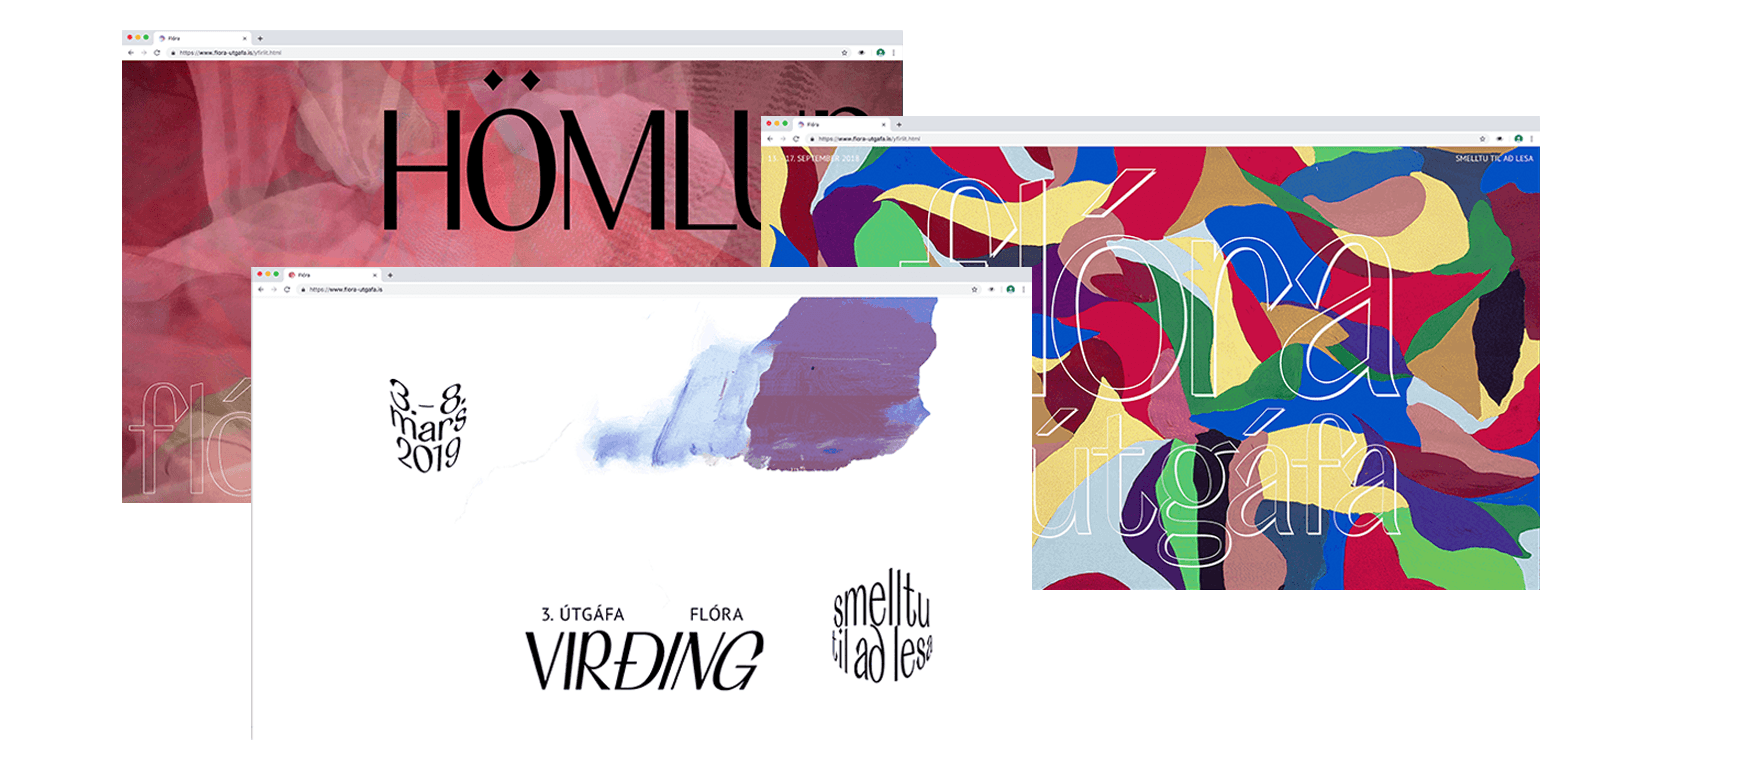
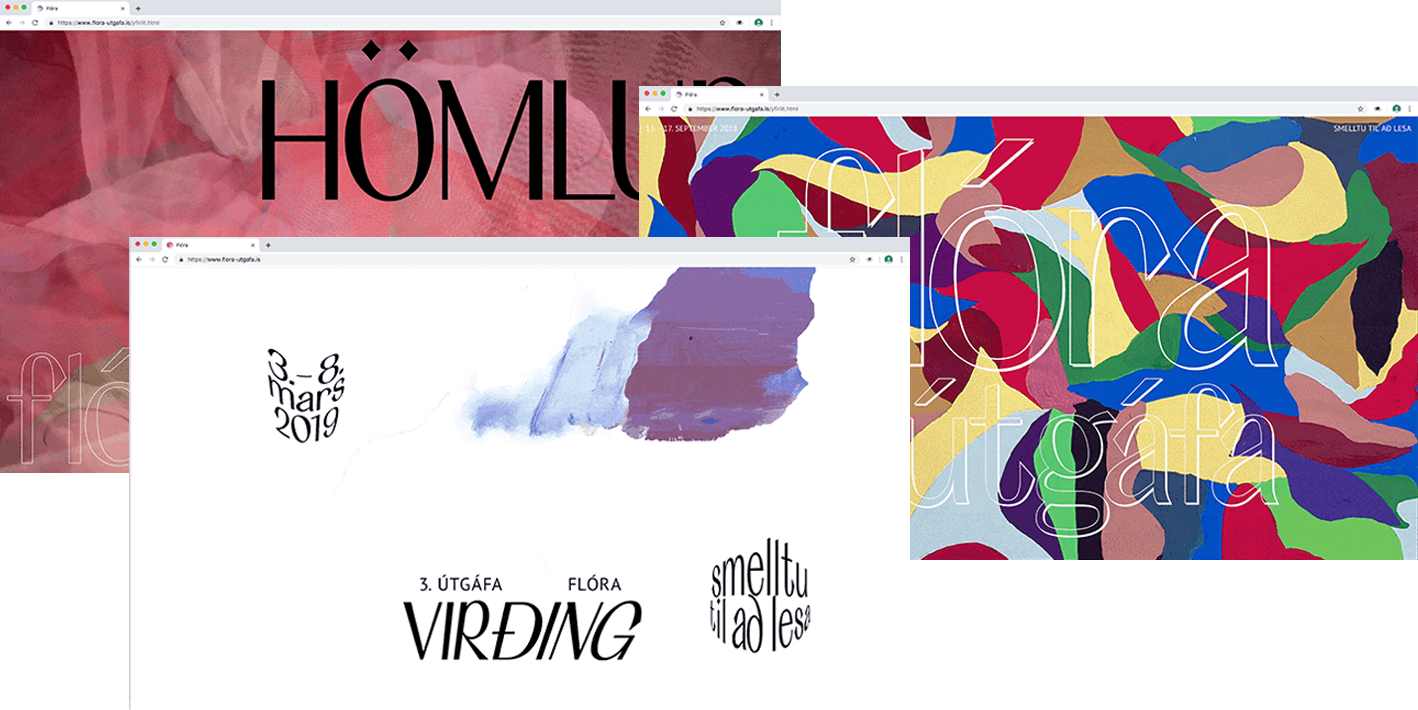
better

diff --git a/viv.html b/viv.html
@@ -38,64 +38,51 @@
 
 
 
-
-  <img class="portfolio-item" style="
-  position: absolute;
-    top: 0.8%;
-    z-index: 1;
-    right: 35.5%;
-    height: 45%;" 
-    src="igms/INNviv/30.jpg"/>
+  
+  
     <img class="portfolio-item" style="
-  position: absolute;
-    top: 1%;
+    position: absolute;
+    top: 3.2%;
     z-index: 1;
-    right: 0.1%;
+    left: 18.3%;
     height: 45%;" 
-    src="igms/INNviv/31.jpg"/>
-<img class="portfolio-item" style="
-position: absolute;
-bottom: 20%;
-z-index: 1;
-right: 2%;
-height: 45%;" 
-  src="igms/INNviv/44.jpg"/>
-    <img class="portfolio-item" style="
-  position: absolute;
-    top: 13%;
-    z-index: 1;
-    right: 15%;
-    height: 45%;" 
-    src="igms/INNviv/29.jpg"/>
+    src="igms/INNviv/41.jpg"/>
+    
 
 
-
-	<img class="portfolio-item" style="
-  position: absolute;
-    top: 15%;
-    z-index: 1;
-    left: 0.5%;
-    height: 45%;" 
-    src="igms/INNviv/25.jpg"/>
+	
   <img class="portfolio-item" style="
 	position: absolute;
-  	top: 3%;
+  	top: 18%;
   	z-index: 1;
   	left: 3%;
   	height: 45%;" 
   	src="igms/INNviv/22.jpg"/>
 
+    <img class="portfolio-item" style="
+  position: absolute;
+    top: 39.3%;
+    z-index: 1;
+    left: 15.9%;
+    height: 45%;" 
+    src="igms/INNviv/26.jpg"/>
 
-  	<img class="portfolio-item" style="
-	position: absolute;
-  	bottom: -1%;
-  	z-index: 1;
-  	left: 36%;
-  	height: 45%;" 
-  	src="igms/INNviv/32.jpg"/>
+    <img class="portfolio-item" style="
+  position: absolute;
+    top: 68.5%;
+    z-index: 1;
+    left: 3.5%;
+    height: 45%;" 
+    src="igms/INNviv/38.jpg"/>
 
-    
-	
+    <img class="portfolio-item" style="
+    position: absolute;
+    top: 56.8%;
+    z-index: 1;
+    right: 35.3%;
+    height: 45%;" 
+    src="igms/INNviv/42.jpg"/>
+  	
 
     
 
@@ -103,30 +90,19 @@ height: 45%;"
     
 
 
-    <img class="portfolio-item" style="
-  position: absolute;
-    bottom: 1%;
-    z-index: 1;
-    left: 1%;
-    height: 45%;" 
-    src="igms/INNviv/38.jpg"/>
+    
 
     <img class="portfolio-item" style="
   position: absolute;
-    bottom: -1%;
+    top: 60%;
     z-index: 1;
-    right: -1%;
+    right: 5%;
     height: 45%;" 
     src="igms/INNviv/43.jpg"/>
 
 
-    <img class="portfolio-item" style="
-  position: absolute;
-    bottom: 5%;
-    z-index: 1;
-    left: 13%;
-    height: 45%;" 
-    src="igms/INNviv/26.jpg"/>
+    
+    <!--
     <img class="portfolio-item" style="
     position: absolute;
     top: 32%;
@@ -141,23 +117,61 @@ height: 45%;"
     right: 27.5%;
     height: 45%;" 
     src="igms/INNviv/28.jpg"/>
-	
+    -->
+	  <img class="portfolio-item" style="
+    position: absolute;
+    top: 120%;
+    z-index: 1;
+    right: 2%;
+    height: 45%;" 
+    src="igms/INNviv/44.jpg"/>
+    <img class="portfolio-item" style="
+    position: absolute;
+    top: 95.2%;
+    z-index: 1;
+    left: 15.6%;
+    height: 45%;" 
+    src="igms/INNviv/25.jpg"/>
+    <img class="portfolio-item" style="
+    position: absolute;
+    top: 119%;
+    z-index: 1;
+    left: 3.5%;
+    height: 45%;" 
+    src="igms/INNviv/32.jpg"/>
+    <img class="portfolio-item" style="
+    position: absolute;
+    top: 110%;
+    z-index: 1;
+    right: 28%;
+    height: 45%;" 
+    src="igms/INNviv/29.jpg"/>
   	
 
     <img class="portfolio-item" style="
   position: absolute;
-    bottom: 5%;
+    top: 17%;
     z-index: 1;
-    right: 2%;
+    right: 4.5%;
     height: 45%;"
     src="igms/INNviv/back.png"/>
   	<img class="portfolio-item" style="
 	position: absolute;
-  	bottom: 15%;
+  	top: 2.5%;
   	z-index: 1;
-  	right: 12%;
+  	right: 11%;
   	height: 45%;" 
   	src="igms/INNviv/viv.png"/>
+
+<div style="
+position: absolute;
+top: 169%;
+left: 2%;
+right: 2%;
+height: auto;
+padding-bottom: 3%;">
+    <div style="padding:36.16% 0 0 0;position:relative;"><iframe src="https://player.vimeo.com/video/331594636?autoplay=1&loop=1&title=0&byline=0&portrait=0" style="position:absolute;top:0;left:0;width:100%;height:100%;" frameborder="0" allow="autoplay; fullscreen" allowfullscreen></iframe></div><script src="https://player.vimeo.com/api/player.js"></script>
+</div>
 
 	<div class="date">Spring 2017</div>
 

diff --git a/flora.html b/flora.html
@@ -37,16 +37,14 @@
   </div>
 
 	
+  
 
-	
-
-	
-  <img class="img portfolio-item" src="igms/INNflora/flaedi.png" style="position: absolute; height: 50%; right: 1%; bottom: 2%;" />
-  <img class="img portfolio-item" src="igms/INNflora/vald2.png" style="position: absolute; height: 40%; left: 2%; top: 2%;" />
-  <img class="img portfolio-item" src="igms/INNflora/rymi2.png" style="position: absolute; height: 40%; right: 0.5%; top: 1%;" />
-  <img class="img portfolio-item" src="igms/INNflora/finnst.png" style="position: absolute; height: 40%; left: 1%; bottom: 1%;" />
-  <img class="img portfolio-item" src="igms/INNflora/ord.png" style="position: absolute; height: 40%; left: 20%; bottom: 15%;" />
-  <img class="img portfolio-item" src="igms/INNflora/forsidur.png" style="position: absolute; height: 40%; right: 24.2%; top: 6%;" />
+  <img class="img portfolio-item" src="igms/INNflora/flaedi.png" style="position: absolute; height: 65%; left: 2.8%; top: 23%;" />
+  <img class="img portfolio-item" src="igms/INNflora/finnst.png" style="position: absolute; height: 52%; right: 4%; top: 4.6%;" />
+  <img class="img portfolio-item" src="igms/INNflora/ord.png" style="position: absolute; height: 52%; right: 6.9%; top: 67%;" />
+  <img class="img portfolio-item" src="igms/INNflora/forsidur.png" style="position: absolute; height: 43%; right: 2%; top: 146%;" />
+  <img class="img portfolio-item" src="igms/INNflora/vald2.png" style="position: absolute; height: 52%; left: 3.7%; top: 107%;" />
+  <img class="img portfolio-item" src="igms/INNflora/rymi2.png" style="position: absolute; height: 52%; left: 2%; top: 175%; padding-bottom: 3%;" />
 
 
 

diff --git a/organogram.html b/organogram.html
@@ -34,14 +34,16 @@
     </div>
   </div>
 
-  <div style="padding:60.71% 0 0 0;position:relative;"><iframe src="https://player.vimeo.com/video/329474642?autoplay=1&loop=1&color=ffffff&title=0&byline=0&portrait=0" style="position:absolute;top:0.5%;left:5%;width:90%;height:95%;" frameborder="0" allow="autoplay; fullscreen" allowfullscreen></iframe></div><script src="https://player.vimeo.com/api/player.js"></script>
+  <div style="position: absolute;top:3%;left:7%;width:86%;height:90%;">
+    <div style="padding:60.71% 0 0 0;position:relative;"><iframe src="https://player.vimeo.com/video/329474642?autoplay=1&loop=1&color=ffffff&title=0&byline=0&portrait=0" style="position:absolute;top:0%;left:0%;width:100%;height:100%;" frameborder="0" allow="autoplay; fullscreen" allowfullscreen></iframe></div><script src="https://player.vimeo.com/api/player.js"></script>
+  </div>
 
-	<div class="date">Autumn 2018</div>
+	<div class="date" style="color: violet;">Autumn 2018</div>
 
 	<div class="subtitlesDate" style="left: 45% !important; right: 45% !important;">KABK.</div>
 
 	
-	<div class="name">Organogram</div>
+	<div class="name" style="color: violet;">Organogram</div>
 	<div class="subtitlesName" style="left: 5%; right: 5%;">
 		A demo of what was supposed to become a website containing a different way of imagining the structure of KABK through a physicalised&nbsp;organogram. Collaboration with Anna&nbsp;Moschioni, Brechje&nbsp;Krah, Nicolai&nbsp;Schmelling, Selina&nbsp;Landis and Seojeong&nbsp;Yoon. 
 	</div>

diff --git a/crowdstream.html b/crowdstream.html
@@ -26,7 +26,7 @@
 <div id="Screen" class="containerMiddleScroll" >
   <div class="dragAnnounceMobile">!! Mobile version under construction !!</div>
 
-	<div class="close">x</div>
+	<div class="close" style="color: white;">x</div>
 
 	<div class="info">
     <img class="logo" src="igms/BBJsmall.png">
@@ -37,12 +37,12 @@
 	<iframe width="48%" height="98%" src="https://www.youtube.com/embed/zYhZ_132qek?rel=0&amp;controls=0&amp;showinfo=0" frameborder="0" allow="autoplay; encrypted-media" allowfullscreen style="position: absolute; left: 1%; top: 1%; z-index: -10;"></iframe>
 	<iframe width="48%" height="98%" src="https://www.youtube.com/embed/CS97UBKuR_Q?rel=0&amp;controls=0&amp;showinfo=0&amp;ecver=1" frameborder="0" allow="autoplay; encrypted-media" allowfullscreen style="position: absolute; right: 1%; top: 1%; z-index: -10;"></iframe>
 
-	<div class="date">Autumn 2016</div>
+	<div class="date" style="color: white;">Autumn 2016</div>
 
 	<div class="subtitlesDate" style="left: 45% !important; right: 45% !important;">KABK.</div>
 
 	
-	<div class="name">Crowdstream</div>
+	<div class="name" style="color: white;">Crowdstream</div>
 	<div class="subtitlesName" style="left: 15%; right: 15%">
 		A video, made of found footage, comparing streams of people to liquid.<br>Split in two and projected on opposing walls as an installation.
 	</div>

diff --git a/style intro.css b/style intro.css
@@ -20,7 +20,7 @@ img.portfolio-item {
 }
 ::-webkit-scrollbar-thumb {
   border-radius: 0%;
-  background-color: grey;
+  background-color: rgba(128,128,128,0.8);
   border: dotted 0px #027967;
 }
 ::-webkit-scrollbar-corner {
@@ -240,7 +240,7 @@ img.portfolio-item {
   color: #0e000f;
   font-family: 'Nobile', sans-serif;
   font-size: .8vw;
-  background-color: grey;
+  background-color: rgba(128,128,128,0.8);
   padding: 5px;
   padding-bottom: 1px;
   z-index: 2;
